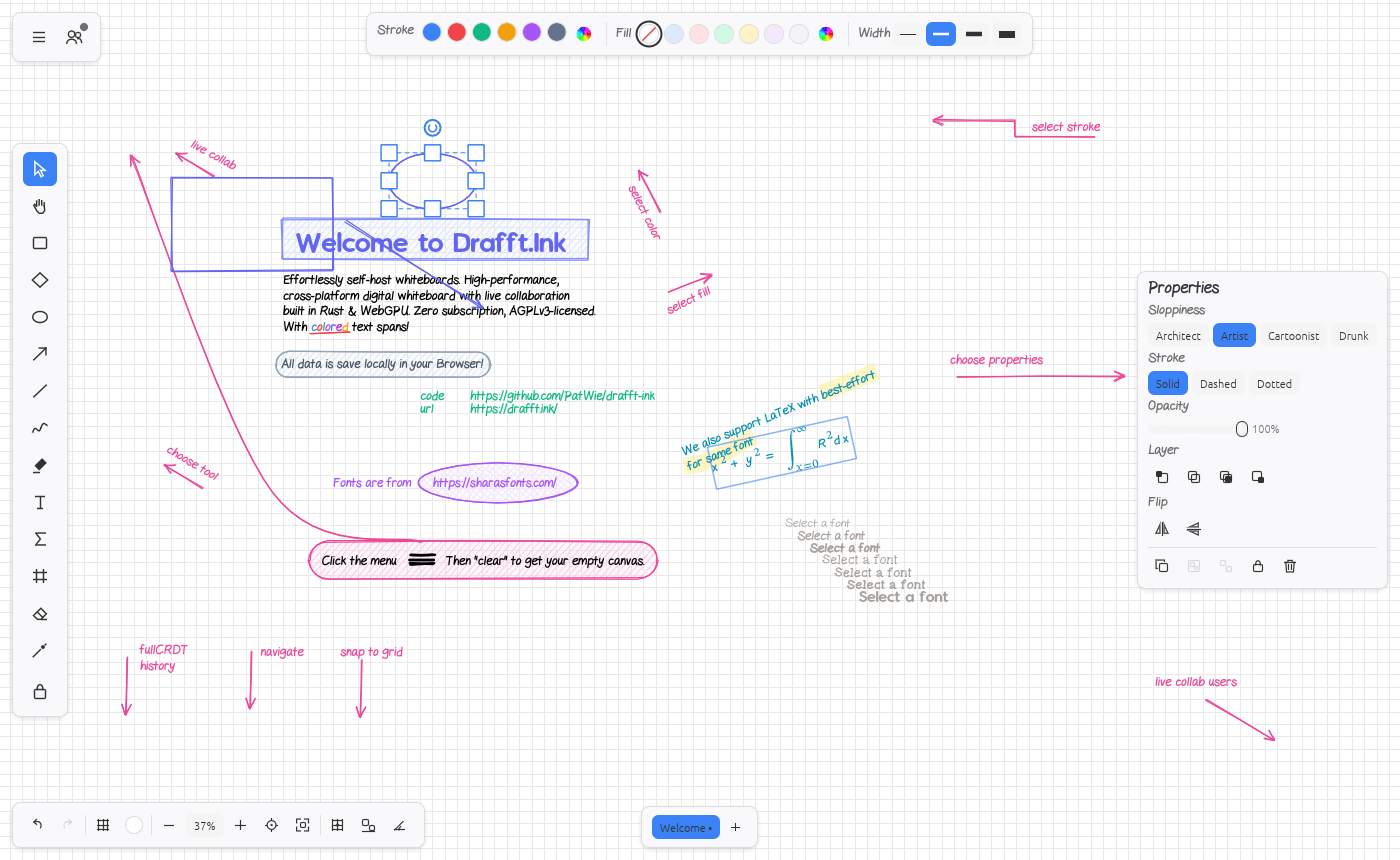
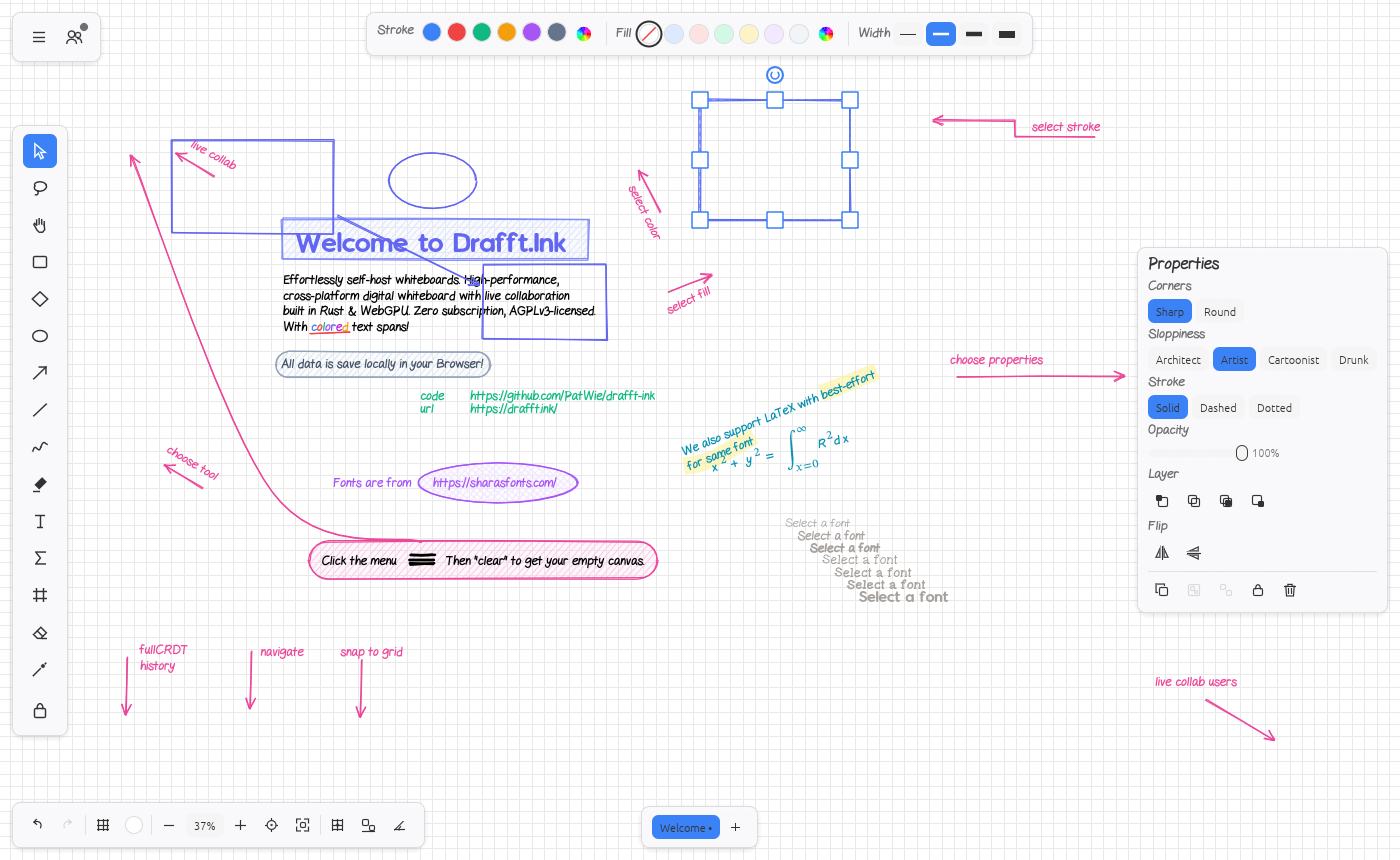
app/gpu: collab wakes and deadlines draw a frame only when something visible changed; web_check: bound arrow, mouse drag, commands(), settled room windows; build-web: timeout on wasm-opt

diff --git a/scripts/web_check.py b/scripts/web_check.py
@@ -148,20 +148,45 @@ try:
             check((not r["ok"]) and r["error"]["code"] == -32010, "an unknown command rejects with a refusal", str(r)[:200])
             r = call(pg, "window.drafftink.execute('element.create', {kind:'rectangle', bounds:{x:120,y:120,w:260,h:150}})")
             check(r["ok"] and r["value"].get("changed") is True, "element.create rectangle", str(r)[:200])
-            r = call(pg, "window.drafftink.execute('element.create', {kind:'arrow', points:[[400,190],[620,330]]})")
-            check(r["ok"] and r["value"].get("changed") is True, "element.create arrow", str(r)[:200])
+            id_a = r["value"].get("id")
+            r = call(pg, "window.drafftink.execute('element.create', {kind:'rectangle', bounds:{x:620,y:260,w:200,h:120}})")
+            id_b = r["value"].get("id")
+            r = call(pg, "window.drafftink.execute('element.create', {kind:'arrow', points:[[380,195],[620,320]], start:{target:'" + id_a + "'}, end:{target:'" + id_b + "'}})")
+            check(r["ok"] and r["value"].get("start_target") == id_a and r["value"].get("end_target") == id_b, "element.create arrow bound to both rectangles", str(r)[:200])
+            arrow = r["value"].get("id")
+            r = call(pg, "window.drafftink.execute('element.move', {ids:['" + id_a + "'], dx:0, dy:-60})")
+            moved = call(pg, "window.drafftink.execute('doc.inspect', {ids:['" + arrow + "'], detail:'full'})")
+            check(r["ok"] and moved["ok"] and moved["value"]["items"][0]["points"][0][1] < 195, "element.move dragged the bound arrow along", str(moved)[:200])
+            r = call(pg, "window.drafftink.commands({})")
+            cmds = r["value"] if r["ok"] else None
+            items = cmds.get("commands", cmds.get("items", [])) if isinstance(cmds, dict) else (cmds or [])
+            check(r["ok"] and len(items) > 100 and any("available" in str(c) for c in items[:3]), "commands() lists the registry with availability", f"{len(items)} commands; first: {str(items[:1])[:200]}")
             r = call(pg, "window.drafftink.batch([{id:'element.create', args:{kind:'ellipse', bounds:{x:470,y:80,w:140,h:90}}}], {label:'ellipse'})")
             check(r["ok"], "batch() resolves", str(r)[:200])
             r = call(pg, "window.drafftink.recent({limit:5})")
             check(r["ok"] and any(e.get("source") == "agent" for e in r["value"].get("entries", [])), "recent() shows origin agent", str(r)[:200])
             time.sleep(1.5)
             q = call(pg, "window.drafftink.execute('element.query', {})")
-            check(q["ok"] and q["value"].get("total", 0) >= 3, "element.query sees 3 elements", str(q)[:160])
+            check(q["ok"] and q["value"].get("total", 0) >= 4, "element.query sees 4 elements", str(q)[:160])
+            # real browser input: the rectangle tool from the toolbar, then a drag on the canvas
+            n0 = call(pg, "window.drafftink.execute('element.query', {})")["value"]["total"]
+            call(pg, "window.drafftink.execute('selection.clear', {})")
+            pg.mouse.move(700, 300); time.sleep(0.3); pg.keyboard.press("r"); time.sleep(0.3)
+            pg.mouse.move(700, 100); pg.mouse.down()
+            for i in range(1, 16): pg.mouse.move(700 + i * 10, 100 + i * 8); time.sleep(0.02)
+            pg.mouse.up(); time.sleep(0.6)
+            n1 = call(pg, "window.drafftink.execute('element.query', {})")["value"]["total"]
+            check(n1 == n0 + 1, "a mouse drag with the rectangle tool drew a rectangle", f"{n0} -> {n1}")
+            rec = call(pg, "window.drafftink.recent({limit:3})")
+            check(rec["ok"] and any(e.get("id") == "element.create" and e.get("source") == "ui" for e in rec["value"]["entries"]), "the mouse drag is a ui element.create in the ring", str(rec)[:300])
             if args.shot:
                 os.makedirs(os.path.dirname(os.path.abspath(args.shot)), exist_ok=True)
                 pg.screenshot(path=args.shot); print("screenshot", args.shot, flush=True)
+            time.sleep(2)
             r = window(pg, f"idle after commands {args.idle_secs:g}s", args.idle_secs)
             check(r["frames"] == 0, "0 frames idle after commands", str(r["frames"]))
+            perf_now = pg.evaluate("()=>window.drafftink.perf()")
+            check(isinstance(perf_now, dict) and perf_now["redraws"]["by_reason"].get("autosave", 0) >= 0 and frames(pg)["frames"] > 0, "perf() reports redraw reasons and frames() counts frames", str(perf_now["redraws"])[:200])
             # persistence: the workspace reaches IndexedDB
             time.sleep(3)
             keys = pg.evaluate("""()=>new Promise((res,rej)=>{const o=indexedDB.open('drafftink');o.onerror=()=>rej('open');o.onsuccess=()=>{const db=o.result;
@@ -172,11 +197,11 @@ try:
                 if pg.evaluate("()=>window.__started||window.__error||false"): break
                 time.sleep(0.1)
             q = call(pg, "window.drafftink.execute('element.query', {})")
-            check(q["ok"] and q["value"].get("total", 0) >= 3, "the drawing is back after a reload", str(q)[:160])
+            check(q["ok"] and q["value"].get("total", 0) >= 4, "the drawing is back after a reload", str(q)[:160])
             # collab: page A on 127.0.0.1, page B on localhost (separate IndexedDB), same room
             room = "web-check-" + "".join(random.choice("abcdefghij") for _ in range(8))
             a, _ = open_app(ctx, f"{base}/?room={room}")
-            time.sleep(3)
+            time.sleep(8)  # join, first sync and the status settling
             # The server pings every 20 s and a peer sends presence every 10 s; 22 s covers both.
             r = window(a, "alone in a room, idle 22s", 22)
             check(r["frames"] == 0, "0 frames idle, alone in a room (server ping included)", f'{r["frames"]} frames, {r["redraw_requests"]}')
@@ -198,7 +223,7 @@ try:
             check(seen, "collab: page A sees the element page B drew")
             if args.shot:
                 a.screenshot(path=args.shot.replace(".png", "-collab.png"))
-            time.sleep(1.5)
+            time.sleep(8)  # the edits are acknowledged and the peers' first presence has arrived
             r = window(a, "with a peer in the room, idle 22s", 22)
             check(r["frames"] == 0, "0 frames idle with a peer in the room (presence heartbeat included)", f'{r["frames"]} frames, {r["redraw_requests"]}')
             a.close(); b.close()

diff --git a/crates/app/src/app.rs b/crates/app/src/app.rs
@@ -396,20 +396,25 @@ impl App {
         }
     }
 
-    fn poll_collab(&mut self, now_ms: u64) {
+    /// Lets the collaboration client work. Returns whether it left something to show: a notice, or a change
+    /// of the screen the session recorded.
+    fn poll_collab(&mut self, now_ms: u64) -> bool {
         let due = self.collab_due_ms.is_some_and(|d| now_ms >= d);
         if !due && !self.in_room {
-            return;
+            return false;
         }
         let poll = self.session.collab_poll();
         self.collab_due_ms = poll.wake_in_ms.map(|ms| now_ms.saturating_add(ms.max(1)));
         self.in_room = self.session.collab_view().room.is_some();
+        let mut shown = self.session.dirty().is_some();
         for notice in self.session.take_collab_notices() {
+            shown = true;
             match notice {
                 drafftink_engine::cmd::collab::CollabNotice::Info(t) => self.toast(t),
                 drafftink_engine::cmd::collab::CollabNotice::Problem(p) => self.toast(p.text),
             }
         }
+        shown
     }
 
     /// Esc and Enter belong to the interaction layer while it has something running (a drag, a line draft).
@@ -693,6 +698,14 @@ impl ShellApp for App {
                 self.world_key = None;
                 self.overlay_key = None;
                 (Repaint::Now(RedrawReason::Surface), Handled::No)
+            }
+            // Socket traffic (a server ping, a peer's unchanged presence) usually changes nothing on screen:
+            // work it off here and ask for a frame only when something is to be shown.
+            ShellEvent::Wake(RedrawReason::Collab) => {
+                let now = self.now_ms();
+                let repaint =
+                    if self.poll_collab(now as u64) { Repaint::Now(RedrawReason::Collab) } else { self.next_wake(now) };
+                (repaint, Handled::No)
             }
             ShellEvent::Wake(reason) => (Repaint::Now(reason), Handled::No),
             ShellEvent::FileHover(_)

diff --git a/crates/gpu/src/repaint.rs b/crates/gpu/src/repaint.rs
@@ -67,16 +67,16 @@ impl RepaintState {
         }
     }
 
-    /// A wake-up arrived. If the deadline passed it becomes a pending frame (reason `timer`
-    /// unless the request named another). Returns true when `Window::request_redraw` must be called.
-    pub(crate) fn tick(&mut self, now: Instant) -> bool {
+    /// A wake-up arrived. If the deadline passed, returns the reason it was asked with (`timer` unless the
+    /// request named another) and clears it; the caller decides whether that becomes a frame
+    /// ([`RepaintState::request_now`]) or goes to the app first.
+    pub(crate) fn expired(&mut self, now: Instant) -> Option<RedrawReason> {
         match self.later {
             Some((at, reason)) if at <= now => {
                 self.later = None;
-                // Delayed requests carry their own reason (autosave, caret blink, ...).
-                self.request_now(reason)
+                Some(reason)
             }
-            _ => false,
+            _ => None,
         }
     }
 
@@ -187,9 +187,11 @@ mod tests {
         assert!(!s.apply(t0, Repaint::After(ms(100), RedrawReason::Autosave)));
         assert!(!s.apply(t0, Repaint::After(ms(300), RedrawReason::Timer)), "later request does not replace");
         assert!(matches!(s.control_flow(), ControlFlow::WaitUntil(at) if at == t0 + ms(100)));
-        assert!(!s.tick(t0 + ms(50)), "too early");
+        assert_eq!(s.expired(t0 + ms(50)), None, "too early");
         let scope = WorkScope::begin();
-        assert!(s.tick(t0 + ms(100)));
+        assert_eq!(s.expired(t0 + ms(100)), Some(RedrawReason::Autosave));
+        assert!(scope.redraw_reasons().is_empty(), "an expired deadline is not a frame request by itself");
+        assert!(s.request_now(RedrawReason::Autosave));
         assert_eq!(scope.redraw_reasons(), vec![RedrawReason::Autosave]);
         assert!(matches!(s.control_flow(), ControlFlow::Wait));
         assert_eq!(s.take(), Some(RedrawReason::Autosave));

diff --git a/crates/gpu/src/shell.rs b/crates/gpu/src/shell.rs
@@ -958,17 +958,27 @@ impl<A: ShellApp> ApplicationHandler<UserEvent> for Shell<A> {
                 self.apply_repaint(Repaint::After(delay, reason));
             }
             UserEvent::Wake(reason) => {
+                // The app answers with the repaint it needs (usually `Now(reason)`; none when the wake changed
+                // nothing visible).
                 self.dispatch(ShellEvent::Wake(reason));
-                self.want_frame(reason);
             }
             UserEvent::Host(ev) => self.handle_host_event(ev),
         }
     }
 
     fn new_events(&mut self, _: &ActiveEventLoop, cause: StartCause) {
-        // A `WaitUntil` deadline passed: the delayed request becomes a frame.
-        if matches!(cause, StartCause::ResumeTimeReached { .. }) && self.repaint.tick(Instant::now()) {
-            self.request_redraw();
+        // A `WaitUntil` deadline passed. Usually the delayed request becomes a frame. A collaboration deadline
+        // goes to the app as a wake instead: most of them (a heartbeat, a retry check) change nothing visible,
+        // and the app answers with a repaint only when something did.
+        if !matches!(cause, StartCause::ResumeTimeReached { .. }) {
+            return;
+        }
+        match self.repaint.expired(Instant::now()) {
+            Some(RedrawReason::Collab) => {
+                self.dispatch(ShellEvent::Wake(RedrawReason::Collab));
+            }
+            Some(reason) => self.want_frame(reason),
+            None => {}
         }
     }
 

diff --git a/docs/shell.md b/docs/shell.md
@@ -44,8 +44,8 @@ drafftink_gpu::run(app, Options { title, initial_size, canvas_id })   // native 
 - `FrameOutput` says `canvas_rect` (where hover goes to the app), `text_input` (caret rect for the IME and
   the soft keyboard), `cursor`, and `repaint`.
 - `Waker` (`Clone + Send + Sync`, from `SetupCx`/`EventCx`/`FrameCx`) wakes the loop from any thread or
-  task: `waker.wake(RedrawReason::Collab)`. The loop calls `event(Wake(reason))` and then draws a frame.
-  Network messages, finished autosaves and image decodes use this. Timers use `Repaint::After`.
+  task: `waker.wake(RedrawReason::Collab)`. The loop calls `event(Wake(reason))` and draws a frame if the app answers with a repaint request (a wake that changed nothing visible can answer `Idle`).
+  Network messages, finished autosaves and image decodes use this. Timers use `Repaint::After`; when a deadline asked with reason `Collab` arrives, the loop sends `event(Wake(Collab))` and draws only if the app answers with a repaint (every other deadline becomes a frame at once).
 - `EventCx::set_clipboard(ClipboardContent)` writes text, PNG images and an app-private payload.
   `open_url`, `set_cursor` are there too. `debug_lose_device` is a test hook.
 
